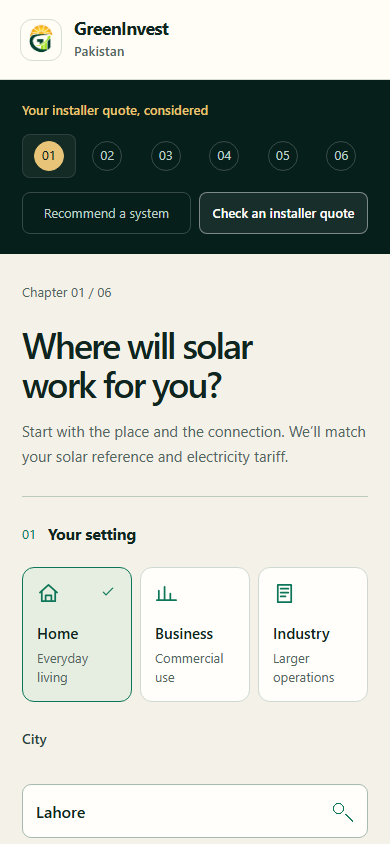
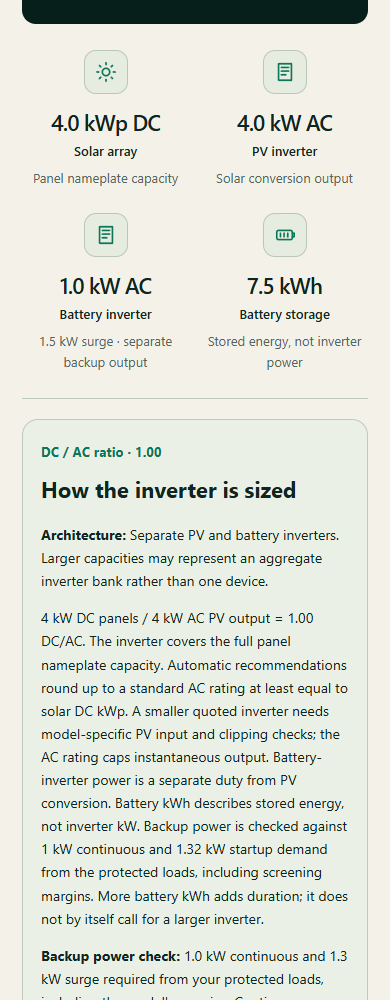
Prepare GreenInvest Pakistan 4.7.1 inverter sizing release

diff --git a/README.md b/README.md
@@ -27,7 +27,7 @@
 </p>
 
 <p align="center">
-  <img alt="GreenInvest 4.7.0" src="https://img.shields.io/badge/release-4.7.0-0E7658?style=flat-square">
+  <img alt="GreenInvest 4.7.1" src="https://img.shields.io/badge/release-4.7.1-0E7658?style=flat-square">
   <img alt="Pakistan-specific screening" src="https://img.shields.io/badge/market-Pakistan-F3C969?style=flat-square&labelColor=10251F">
   <img alt="Windows 10 and 11" src="https://img.shields.io/badge/Windows-10%20%7C%2011-1A7782?style=flat-square&logo=windows&logoColor=white">
   <img alt="Standalone Windows application" src="https://img.shields.io/badge/desktop-standalone-B7F43B?style=flat-square&labelColor=10251F">
@@ -117,6 +117,11 @@ the separate allowance for structure, wiring, protection and installation.
   on-demand Monte Carlo results.
 - **Evidence and downloads** — reports, plan data, configuration, evidence and
   CSV exports that can be reviewed outside the application.
+
+The report separates **solar capacity (kWp DC)**, **inverter output (kW AC)**,
+**backup inverter power (kW)** and **battery storage (kWh)**. For example,
+17.5 kWh describes stored battery energy, not a 17.5 kW inverter. Backup power
+is checked against the loads you want to keep running and their startup demand.
 
 <p align="center">
   <img src="assets/my-decision-result.png" alt="GreenInvest Pakistan recommendation showing the verdict, proposed system and decision rationale" width="100%">
@@ -211,7 +216,7 @@ warranties, utility treatment and complete payable bill.
 
 | Resource | Official location |
 | --- | --- |
-| Current release | [GreenInvest Pakistan 4.7.0](https://github.com/mbax0009/GreenInvest-Pakistan/releases/latest) |
+| Current release | [GreenInvest Pakistan 4.7.1](https://github.com/mbax0009/GreenInvest-Pakistan/releases/latest) |
 | Consumer tariff reference | [2026 residential, commercial, and industrial schedule](TARIFFS.md) |
 | Windows verification | [Installation and SHA-256 instructions](RELEASES.md) |
 | Product support | [Support guide](SUPPORT.md) |

diff --git a/CHANGELOG.md b/CHANGELOG.md
@@ -4,6 +4,20 @@ Product-facing release history for the official live calculator and standalone
 Windows application. Downloadable files and integrity information are published
 on the [release page](https://github.com/mbax0009/GreenInvest-Pakistan/releases).
 
+## 4.7.1 — 18 October 2026
+
+### Clearer inverter and storage recommendations
+
+- Align the recommended PV inverter and its cost with the selected solar array.
+- Show solar capacity, PV inverter power, separate backup inverter power and
+  battery energy as distinct figures with explicit units.
+- Explain backup sizing from protected running and startup loads. Battery kWh
+  describes stored energy and duration; it is not the inverter's kW rating.
+- Show one shared output for hybrid systems and retain exact installer quotes
+  for assessment, including capacity and compatibility checks.
+- Update report downloads and preserve historical saved reports for reference;
+  recalculate to apply the current sizing assumptions.
+
 ## 4.7.0 — 9 October 2026
 
 ### The decision studio
